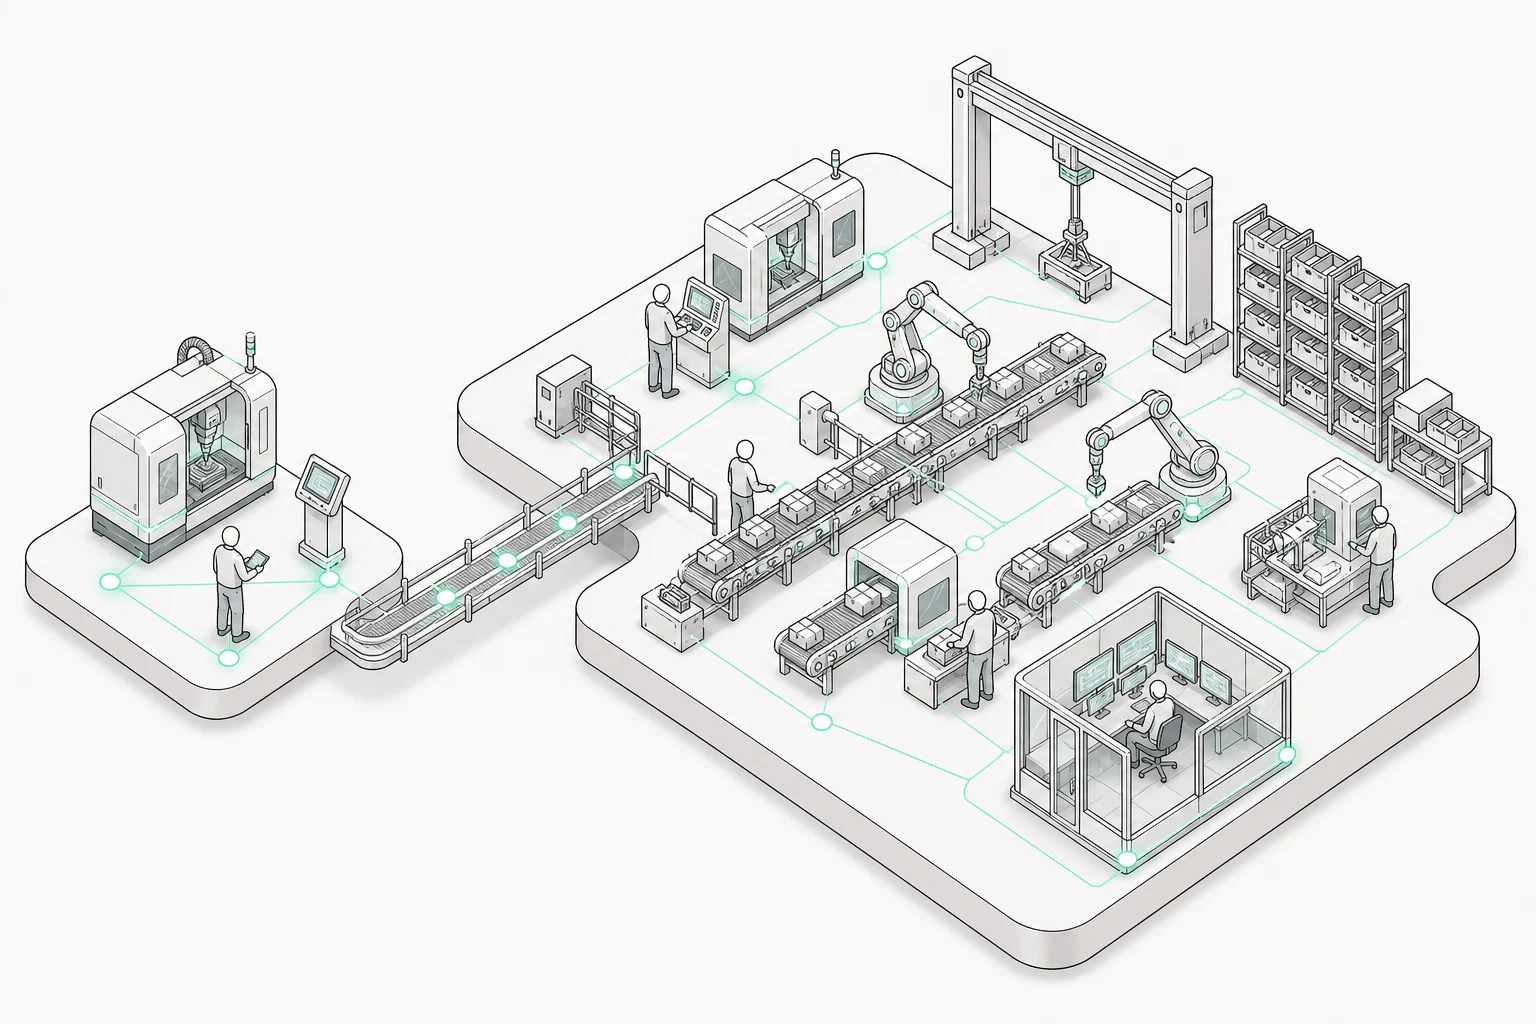
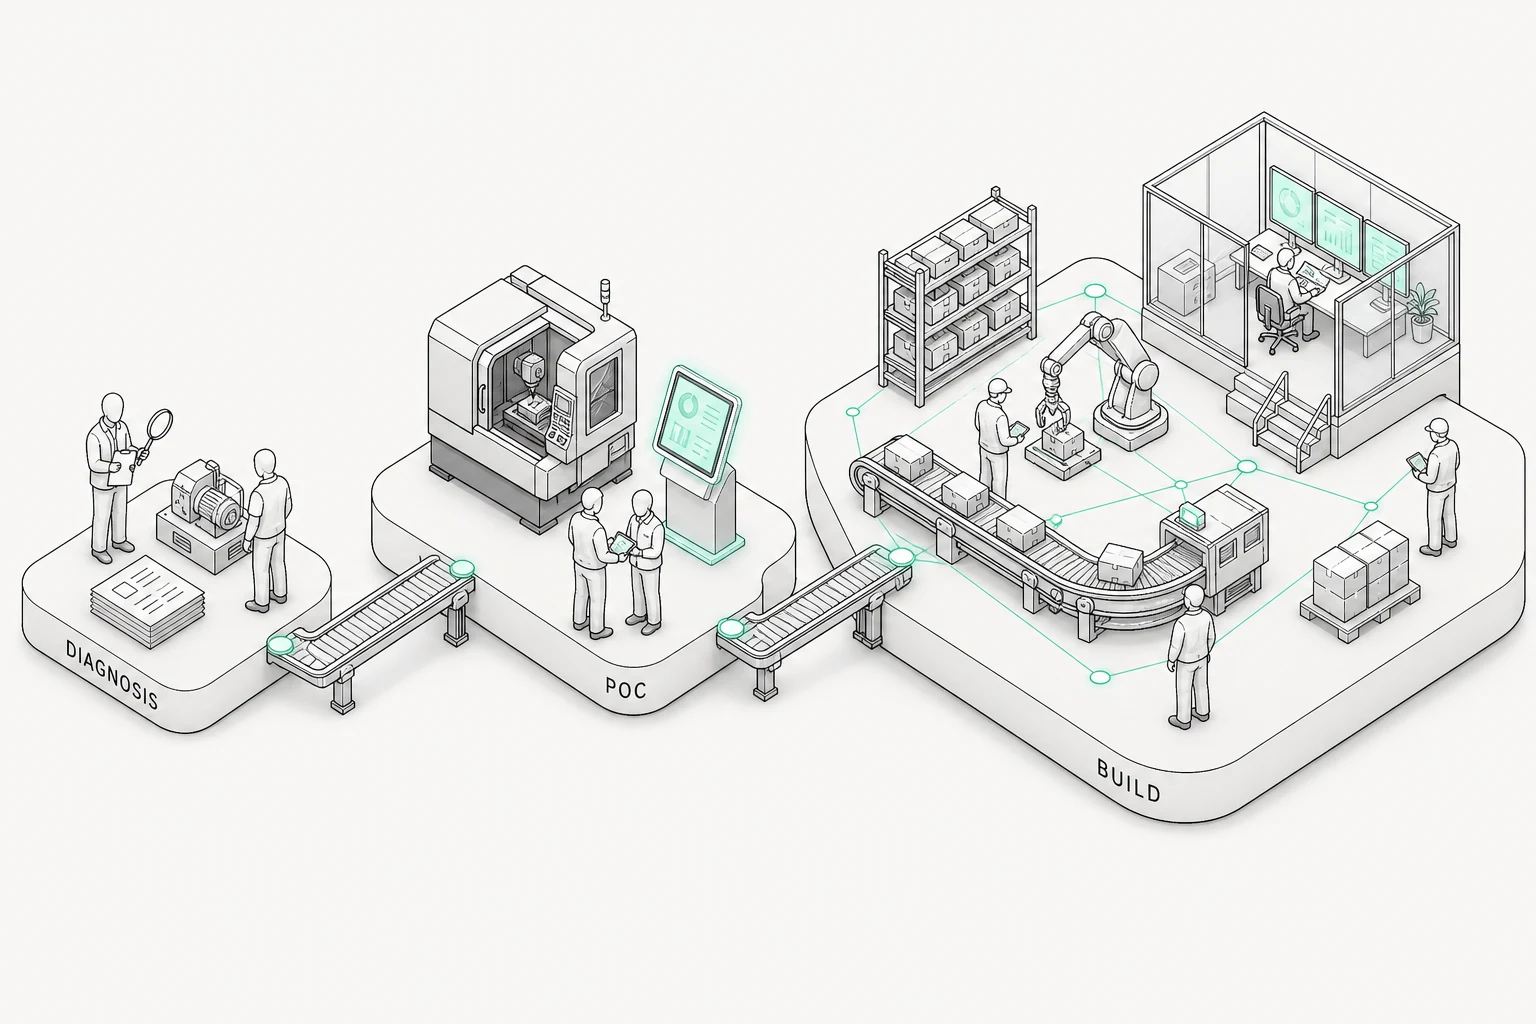
feat: 이미지 3종 교체 — 문제 섹션 SVG→아이소메트릭, 서비스 단계 라벨, 프로세스 3D 렌더
- silo: 문제 섹션 SVG 다이어그램을 아이소메트릭 이미지로 치환 (PLC·MES·ERP·DRAWINGS·LOGBOOK, 끊어진 브리지+red X), silo CSS 제거
- scale-up: DIAGNOSIS→POC→BUILD 3단계 영문 라벨 포함해 재생성
- journey: 밀도 높은 소프트 3D 클레이 렌더로 전면 재제작 (빈 공간 해소)
- Codex imagegen 스킬이 개인 브랜드 컨텍스트를 끌어온 오생성 1회 발견·폐기 후 재생성

Changed region(s): [[0.0, 0.0625, 1.0, 0.9688], [0.3125, 0.25, 0.3438, 0.2812]]

diff --git a/talos/index.html b/talos/index.html
@@ -163,37 +163,8 @@
           현장 기록은 엑셀과 수첩에. 답은 회사 안에 있는데, 서로 연결돼 있지 않을 뿐입니다.
           AI 도입이 실패하는 이유는 AI가 아니라, 데이터입니다.
         </p>
-        <div class="silo-diagram reveal" role="img" aria-label="서로 연결되지 않은 5개 시스템: PLC/센서, MES, ERP, 도면/문서, 현장 수기기록">
-          <svg viewBox="0 0 720 260" fill="none" xmlns="http://www.w3.org/2000/svg">
-            <g class="silo-lines" stroke-width="1.5" stroke-dasharray="3 7" opacity="0.6">
-              <line x1="120" y1="70"  x2="300" y2="70" />
-              <line x1="420" y1="70"  x2="600" y2="70" />
-              <line x1="130" y1="95"  x2="230" y2="180" />
-              <line x1="360" y1="95"  x2="360" y2="165" />
-              <line x1="590" y1="95"  x2="490" y2="180" />
-              <line x1="250" y1="205" x2="470" y2="205" />
-            </g>
-            <g class="silo-breaks" stroke-width="2">
-              <path d="M205 62 l12 16 M217 62 l-12 16" />
-              <path d="M505 62 l12 16 M517 62 l-12 16" />
-              <path d="M354 124 l12 16 M366 124 l-12 16" />
-              <path d="M172 130 l12 16 M184 130 l-12 16" />
-              <path d="M536 130 l12 16 M548 130 l-12 16" />
-              <path d="M354 197 l12 16 M366 197 l-12 16" />
-            </g>
-            <g class="silo-box">
-              <rect x="30"  y="40" width="120" height="56" rx="10" />
-              <text x="90"  y="73">PLC / 센서</text>
-              <rect x="300" y="40" width="120" height="56" rx="10" />
-              <text x="360" y="73">MES</text>
-              <rect x="570" y="40" width="120" height="56" rx="10" />
-              <text x="630" y="73">ERP</text>
-              <rect x="150" y="176" width="130" height="56" rx="10" />
-              <text x="215" y="209">도면 / 문서</text>
-              <rect x="440" y="176" width="150" height="56" rx="10" />
-              <text x="515" y="209">현장 수기기록</text>
-            </g>
-          </svg>
+        <div class="section-visual reveal">
+          <img src="/assets/silo.webp" alt="서로 연결되지 않은 5개 시스템의 아이소메트릭 도식 — PLC, MES, ERP, 도면, 현장 수기기록 플랫폼 사이의 다리가 끊어져 붉은 X로 표시됨" width="1536" height="1024" loading="lazy" />
         </div>
       </div>
     </section>
@@ -290,7 +261,7 @@
         <p class="overline reveal">Services</p>
         <h2 class="reveal">작게 시작해서,<br />공장 전체로 <strong>확장</strong>합니다</h2>
         <div class="section-visual reveal">
-          <img src="/assets/scale-up.webp" alt="확장 아이소메트릭 도식 — 왼쪽의 작은 파일럿 설비 플랫폼이 컨베이어 브리지를 거쳐 로봇암·관제실·랙을 갖춘 공장 전체 연결망으로 확장됨" width="1536" height="1024" loading="lazy" />
+          <img src="/assets/scale-up.webp" alt="3단계 확장 아이소메트릭 도식 — DIAGNOSIS(진단) 플랫폼에서 POC(파일럿) 플랫폼을 거쳐 로봇암·관제실을 갖춘 BUILD(구축) 공장 전체로 확장" width="1536" height="1024" loading="lazy" />
         </div>
         <div class="card-grid reveal">
           <article class="card card-featured">
@@ -344,7 +315,7 @@
         <p class="overline reveal">Process</p>
         <h2 class="reveal">신청부터 파일럿까지,<br /><strong>군더더기 없이</strong></h2>
         <div class="section-visual reveal">
-          <img src="/assets/journey.webp" alt="4단계 여정 아이소메트릭 도식 — 진단 신청 데스크, 화상 미팅, 현장 워크숍, 완성된 대시보드 워크스페이스가 경로로 이어짐" width="1536" height="1024" loading="lazy" />
+          <img src="/assets/journey.webp" alt="4단계 여정 3D 렌더 — 신청 데스크, 화상 미팅, CNC 현장 워크숍, 라벤더 빛의 대시보드 워크스페이스가 하나의 경로로 이어짐" width="1536" height="1024" loading="lazy" />
         </div>
         <ol class="timeline reveal">
           <li>

diff --git a/talos/style.css b/talos/style.css
@@ -454,27 +454,6 @@ h3 {
   margin-left: 0.35rem;
 }
 
-/* ============ S3 silo diagram ============ */
-.silo-diagram {
-  margin-top: 3rem;
-  max-width: 780px;
-  background: var(--surface-card);
-  border: 1px solid var(--hairline);
-  border-radius: var(--r-xxl);
-  padding: clamp(1rem, 3vw, 2.5rem);
-}
-.silo-diagram svg { width: 100%; height: auto; display: block; }
-.silo-box rect { fill: var(--canvas-soft); stroke: var(--hairline-strong); stroke-width: 1; }
-.silo-box text {
-  fill: var(--body);
-  font-family: var(--font-body);
-  font-size: 15px;
-  font-weight: 500;
-  text-anchor: middle;
-}
-.silo-lines { stroke: var(--muted-soft) !important; }
-.silo-breaks { stroke: var(--error) !important; opacity: 0.55; }
-
 /* ============ split layout (S4) ============ */
 .split {
   display: grid;
